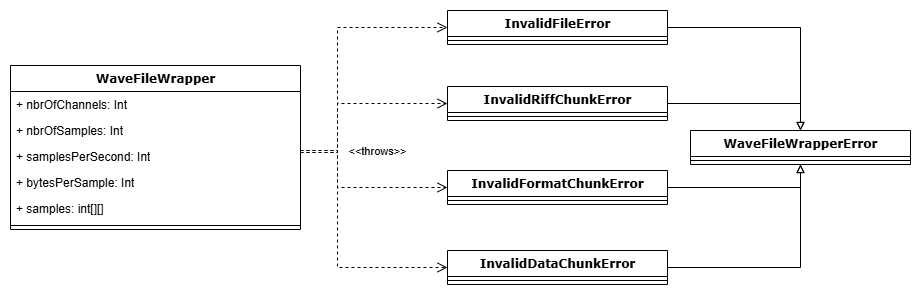
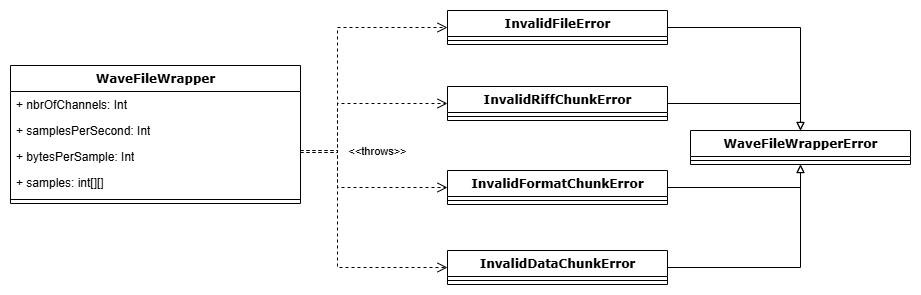
feat: fixed some small details [#10]

diff --git a/app/wavefilewrapper.js b/app/wavefilewrapper.js
@@ -30,11 +30,6 @@ const WAVE_FILE_FORMAT = 0x57415645; // 'WAVE'
 
 export class WaveFileWrapper {
     constructor(file) {
-        this.nbrOfChannels = 0;
-        this.nbrOfSamples = 0;
-        this.samplesPerSecond = 0;
-        this.bytesPerSample = 0;
-
         if (file instanceof ArrayBuffer) {
             this.filename = "Unknown File";
             this.parseFile(file);
@@ -159,11 +154,11 @@ export class WaveFileWrapper {
     }
 
     toString = function() {
-        return `Filename: ${this.filename}\n
-                Number of channels: ${this.nbrOfChannels}\n
-                Number of samples ${this.nbrOfSamples}\n
-                Samples per second ${this.samplesPerSecond}\n
-                Bytes per samples ${this.bytesPerSample}\n`;
+        return `Filename: ${this.filename}
+Number of channels: ${this.nbrOfChannels}
+Number of samples ${this.samples.length}
+Samples per second ${this.samplesPerSecond}
+Bytes per samples ${this.bytesPerSample}`;
     }
 }
 
